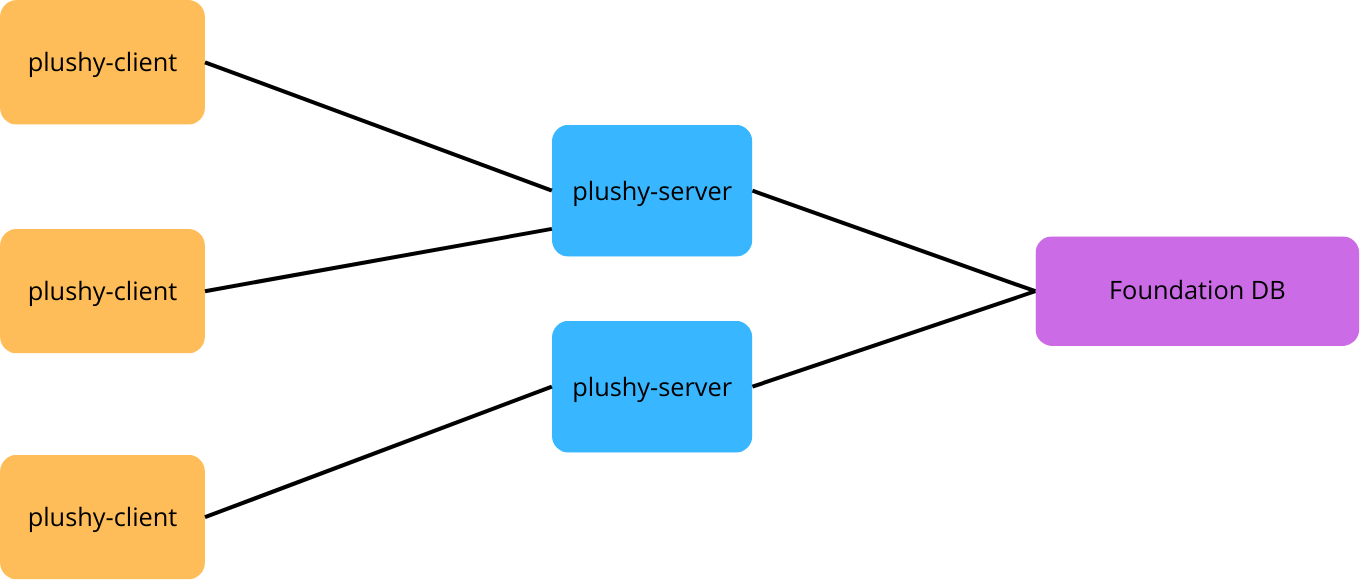
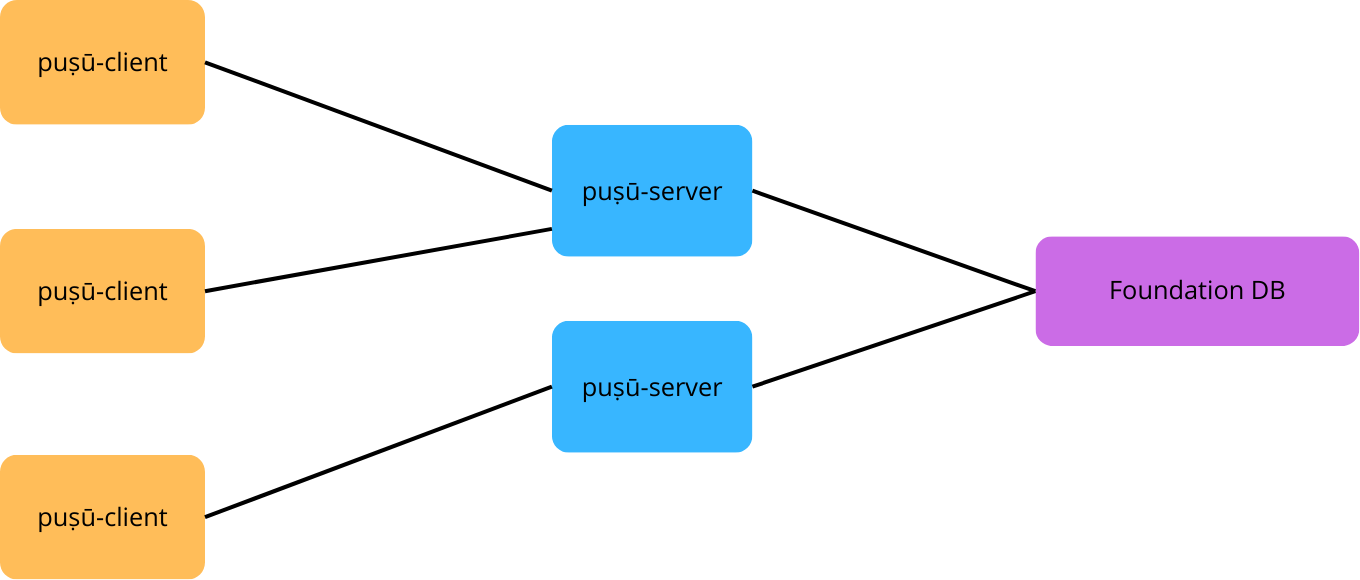
fixup! refactor: rename project from Plushy to Puṣū

diff --git a/README.md b/README.md
@@ -11,7 +11,7 @@ token.
 
 ### Components
 
-The Plushy project is divided in multiple crates, each one with their own purpose:
+The Puṣū project is divided in multiple crates, each one with their own purpose:
 
 - [puṣū-server-lib](pusu-server-lib) : Handle the communication with the FoundationDB cluster
 - [puṣū-server](pusu-server) : Listen to puṣū-client connections
@@ -24,7 +24,7 @@ The Plushy project is divided in multiple crates, each one with their own purpos
 Each `puṣū-server` of a same cluster shared the same FoundationDB as storage endpoint.
 
 `puṣū-server` are fully stateless components, they only hold a transient client session which can be relaunched
-in an another `puṣū-server` instance. This architecture allows a horizontal-scaling preventing any trafic burst.
+in an another `puṣū-server` instance. This architecture allows a horizontal-scaling preventing any traffic bursts.
 
 `puṣū-server` instances are meant to be used behind a load-balancer.
 
@@ -33,4 +33,9 @@ in an another `puṣū-server` instance. This architecture allows a horizontal-s
 `puṣū-client` connects to any `puṣū-server` and starts the communication using
 the [puṣū-protocol](pusu-protocol).
 
-![](assets/doc/images/overview.png)
+<img src="assets/doc/images/overview.png" width="1360" />
+
+### Features
+
+Puṣū is a distributed multi-tenant pub-sub client-server system. It means that you can have multiple times the same channel 
+name but 
